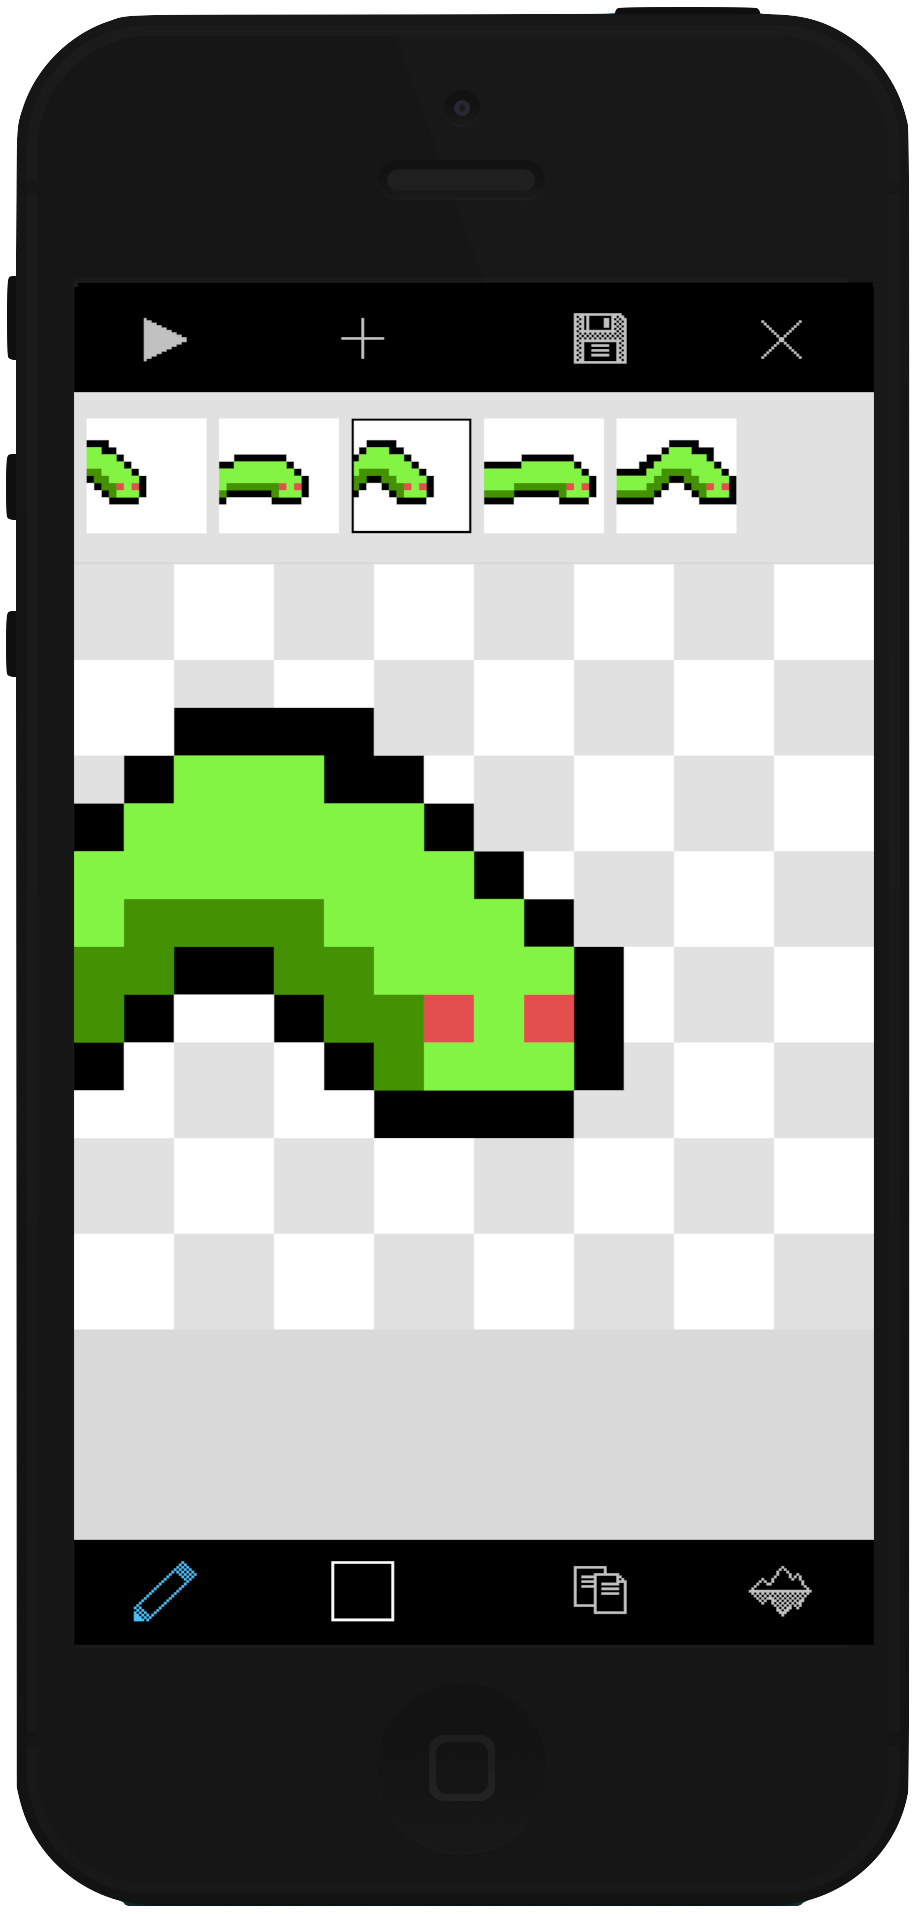
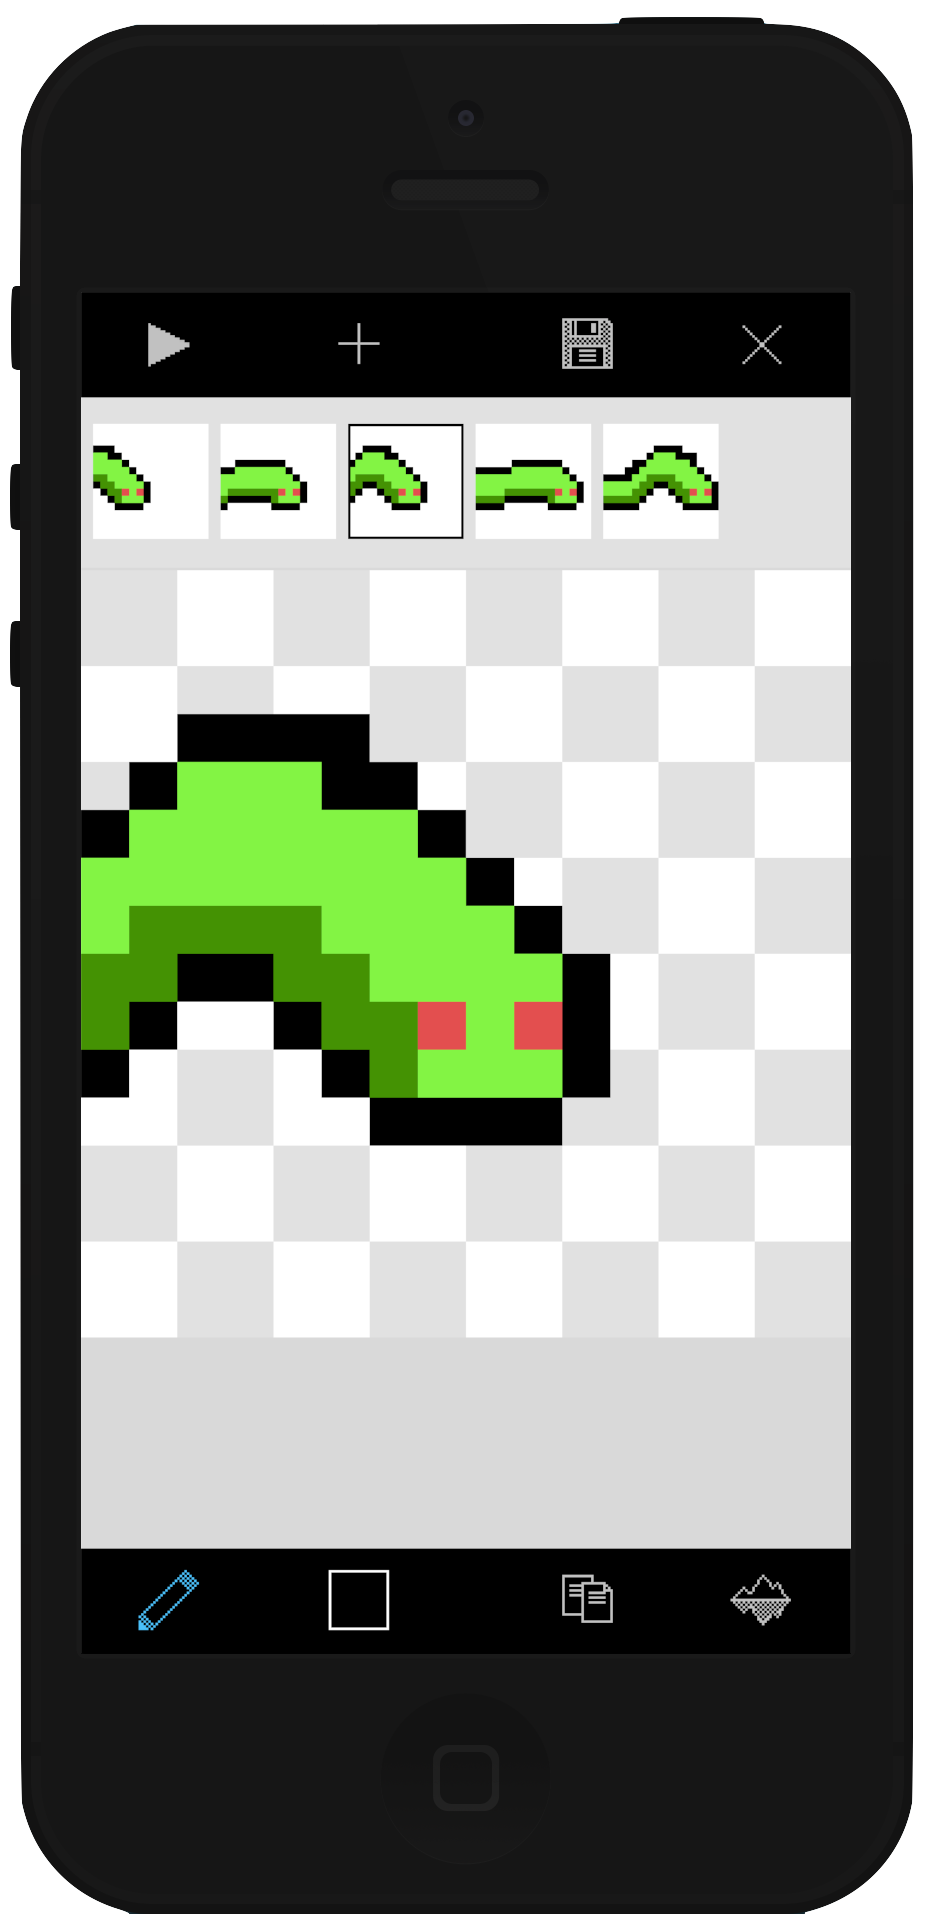
change image png with jpg

diff --git a/diy.html b/diy.html
@@ -5,6 +5,9 @@ description: Create and share a collage of images and texts to explain your DIY 
 background_color: rgb(0, 185, 154)
 title_color: rgb(94, 223, 187)
 text_color: rgb(94, 223, 187)
+pin_url: //pinterest.com/pin/create/button/?url=http%3A%2F%2Fgiorgiamarenda.com%2Fdiy.html
+pin_image: media=http%3A%2F%2Fgiorgiamarenda.com%2Fimages%2Fdiy%2Fiphone.jpg
+pin_description: DIY%20%26%20Crafts%20Editor
 ---
 <div class="block">
 	<div class="float">
@@ -27,11 +30,5 @@ text_color: rgb(94, 223, 187)
 	</div>
 		
 	
-	<div>
-		<a href="//pinterest.com/pin/create/button/?url=http%3A%2F%2Fgiorgiamarenda.com%2Fdiy.html&media=http%3A%2F%2Fgiorgiamarenda.com%2Fimages%2Fdiy%2Fiphone.jpg&description=DIY%20%26%20Crafts%20Editor" data-pin-do="buttonPin" data-pin-config="above">
- 			<img src="//assets.pinterest.com/images/pidgets/pin_it_button.png" />			
- 		</a>      
-  		<script type="text/javascript" src="//assets.pinterest.com/js/pinit.js"></script>
-  	</div>
 
 </div>

diff --git a/drawbang.html b/drawbang.html
@@ -5,12 +5,15 @@ description: Draw! is a pixel art editor. Draw 16 x 16 animated pictures and sha
 background_color: rgb(47, 167, 196)
 title_color: rgb(83, 199, 221)
 text_color: rgb(83, 199, 221)
+pin_url: http%3A%2F%2Fgiorgiamarenda.com%2Fdrawbang.html
+pin_image: http%3A%2F%2Fgiorgiamarenda.com%2Fimages%2Fdrawbang%2Fiphone.jpg
+pin_description: Draw%2016%20x%2016%20animated%20pictures.
 ---
 <div class="block">
 	<div class="float relative">
-		<img src="images/drawbang/iphone.png" alt="" height="621" width="300">
+		<img src="images/drawbang/iphone.jpg" alt="" height="621" width="300">
 		<div class="iphone_content">
-			<iframe width="262" height="442" src="http://www.youtube.com/embed/mTBsCAzB-cA" frameborder="0" allowfullscreen></iframe>
+			<iframe width="248" height="442" src="http://www.youtube.com/embed/mTBsCAzB-cA" frameborder="0" allowfullscreen></iframe>
 		</div>
 	</div>
 	<div class="float desc">

diff --git a/_layouts/project.html b/_layouts/project.html
@@ -40,7 +40,12 @@
     </div>
 
     <footer class="wrapper">
-          <a href="http://twitter.com/sono_la_gii">@sono_la_gii</a>
+      <div class="social_button">
+        <a href="//pinterest.com/pin/create/button/?url={{ page.pin_url }}&media={{ page.pin_image }}&description={{ page.pin_description }}" data-pin-do="buttonPin" data-pin-config="beside">
+          <img src="//assets.pinterest.com/images/pidgets/pin_it_button.png" />     
+        </a>      
+        <script type="text/javascript" src="//assets.pinterest.com/js/pinit.js"></script>
+      </div>
    </footer>
   </div>
   <div id="forest"></div>

diff --git a/stylesheets/style.css b/stylesheets/style.css
@@ -158,7 +158,11 @@ div#main {
 .iphone_content {
   position: absolute;
   top:90px;
-  left:22px;
+  left:29px;
+}
+
+.social_button {
+  margin-top: 20px;
 }
 
 .relative {
